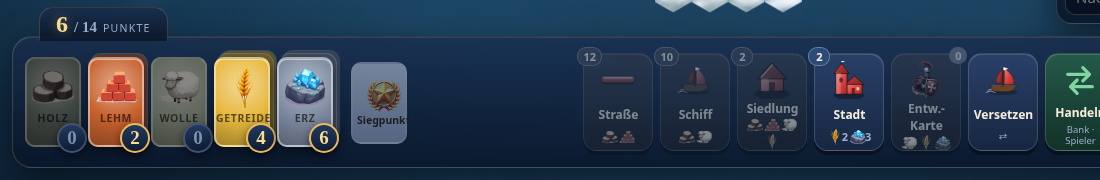
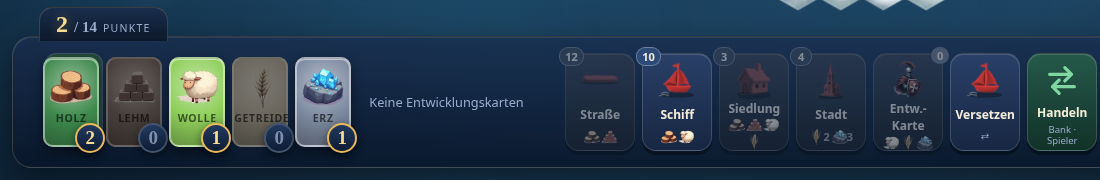
README und Screenshots aktualisiert: Spieltisch, neue Oberfläche, npm run dev, Testliste
Claude-Session: https://claude.ai/code/session_011Zmbz9sbT58iYAsNLxzKWW

diff --git a/README.md b/README.md
@@ -23,6 +23,14 @@ Anmeldung mit Avatar-Auswahl und Lobby mit Bots:
 
 ![Avatare](docs/screenshots/avatare.png)
 
+Digitaler Spieltisch (Browser des Spielleiters als Tischplatte, gedrehte Spielerleisten an allen Rändern), Platzwahl beim Start und ein Handelsangebot am Tisch:
+
+![Spieltisch](docs/screenshots/tisch.webp)
+
+| Platzwahl beim Spielstart | Handelsangebot am Tisch |
+|---|---|
+| ![Platzwahl](docs/screenshots/platzwahl.webp) | ![Handel am Tisch](docs/screenshots/tisch_handel.webp) |
+
 Die Karten sind mit Flux/Forge gemalt: Rohstoffe, Ereigniskarten (Entwicklungskarten) und die Kartenleiste im Spiel.
 
 ![Rohstoffkarten](docs/screenshots/rohstoffkarten.png)
@@ -33,7 +41,8 @@ Kartenanimation (eine Karte fliegt vom Feld in die eigene Hand):
 
 ![Kartenanimation](docs/screenshots/kartenanimation.webp)
 
-Neu erzeugen: `node tests/mock/readme.js && node tests/mock/serve.js &` und dann `python3 tests/mock/readme_shots.py`.
+Neu erzeugen: Spielansichten, Statistik und Kartenleiste mit `node tests/mock/readme.js && node tests/mock/serve.js &` und dann `python3 tests/mock/readme_shots.py`
+(Anmeldung: `?mock=anmeldung`); Lobby mit Bots und Spieltisch fotografieren `tests/browser_bots.py` und `tests/browser_table.py` mit gesetztem `SHOTS=<Verzeichnis>`.
 
 ## Starten
 
@@ -54,8 +63,9 @@ bzw. „App installieren“ des Browsers (Manifest + Icons in `public/`, braucht
 `./scripts/release.sh 1.0.0 --build` (oder `npm run release -- 1.0.0`) – prüft Branch und sauberen Arbeitsbaum, führt `tests/run_all.sh` aus, setzt Version und CHANGELOG-Abschnitt,
 committet „Release 1.0.0“, setzt das Tag `v1.0.0` und baut mit `--build` das Image `localhost/handelsinseln:1.0.0` (+ `latest`). Gepusht wird nie automatisch; das Skript nennt die nächsten Befehle.
 
-Lokal ohne Container: `node server/server.js`. Umgebungsvariablen: `PORT`, `DATA_DIR` (Spielstand), `ABSENT_MS` (Abwesenheit bis Auto-Modus, 60000),
-`LISTEN` (Adresse:Port des http-Listeners, z. B. `127.0.0.1:8080`; sonst `PORT`), `MAX_GAMES` (gleichzeitige Spiele, 3), `BOT_MS` (Takt der Bots, 800), `GRACE_MS` (Kulanz, bis ein Spiel ohne verbundenen Menschen endet, 20000), `HTTPS_PORT` (8443), `TLS_CERT`/`TLS_KEY`/`TLS_HOSTS`, `STUN_URL` (optional, für Sprachchat über Netzgrenzen).
+Lokal ohne Container: `node server/server.js`. Zum Entwickeln: `npm run dev` (Port 8090, nur http, Spielstand in `/tmp/handelsinseln-dev`, Neustart des Servers bei Änderungen;
+Änderungen in `public/` genügt ein Neuladen im Browser, ggf. „Bypass for network“ für den Service Worker). Umgebungsvariablen: `PORT`, `DATA_DIR` (Spielstand), `ABSENT_MS` (Abwesenheit bis Auto-Modus, 60000),
+`LISTEN` (Adresse:Port des http-Listeners, z. B. `127.0.0.1:8080`; sonst `PORT`), `MAX_GAMES` (gleichzeitige Spiele, 3), `BOT_MS` (Takt der Bots, 800), `TICK_MS` (Takt der Zeitprüfung, 2000), `GRACE_MS` (Kulanz, bis ein Spiel ohne verbundenen Menschen endet, 20000), `HTTPS_PORT` (8443), `TLS_CERT`/`TLS_KEY`/`TLS_HOSTS`, `STUN_URL` (optional, für Sprachchat über Netzgrenzen).
 
 **Sprachchat und https:** Browser erlauben das Mikrofon nur unter `https://` oder `http://localhost`. Der Server startet deshalb zusätzlich auf Port 8443 mit https und
 erzeugt dafür selbst ein Zertifikat (gespeichert in `DATA_DIR/tls`). Beim ersten Öffnen von `https://<rechner>:8443` muss der Browser-Warnhinweis einmal bestätigt werden
@@ -71,10 +81,10 @@ Stummschalten ist immer möglich (Knopf im Spiel und im Menü, optional Push-to-
   und wählt die **Variante**: *Klassisch* (Hauptinsel, kleine Inseln, Nebel), *Nebelinseln* (kleine Startinsel, alles muss entdeckt werden),
   *Vier Heimatinseln* (jeder startet auf einer eigenen Insel), *Archipel* (viele kleine Inseln, viel Gold, viele Häfen). Alle in der Lobby sehen die Auswahl live und können per Chat oder Sprache mitreden.
 - **Digitaler Spieltisch:** Der Browser des Spielleiters (z. B. ein in den Tisch eingelassener Bildschirm) wird zur Tischplatte, sobald er in der Lobby einen **Tischspieler** anlegt („Tischspieler anlegen …“: Name, Farbe, Avatar). Alle Spieler sitzen dann am Tisch – Bots und Online-Spieler sind in dieser Partie nicht erlaubt. Das Spielfeld füllt den Bildschirm (alle Nicht-Nebel-Felder gerade noch sichtbar), jede Spielerleiste sitzt dauerhaft am Rand zur Sitzposition gedreht (auch mit geheimen Karten – die Spieler decken sie ab), Menüs und Handelsangebote erscheinen an der jeweiligen Leiste. Beim Start wird jeder Spieler der Reihe nach (Spielleiter zuerst) gefragt, wo er sitzt, und wählt einen der acht Plätze (an den langen Seiten je drei, an den kurzen einer). Die Reihenfolge ergibt sich aus den Plätzen im Uhrzeigersinn, gewürfelt wird nur, wer beginnt. Die Karte wird passend zum Seitenverhältnis des Bildschirms erzeugt.
-- **Einstellungen** (Standard = Originalregeln): **Auto Ablauf** manuell/auto (Auto: sofort nach Zugende würfeln, Hinweise blenden sich aus, Karten fliegen schnell; Manuell: Reihenfolge wird ausgewürfelt, Hinweise per Klick schließen, Karten fliegen langsam ), Inseln dichter (Heimatinsel/Archipel: geringere Abstände), Räuber manuell/automatisch, Siegpunkte, Handkarten-Limit (bei einer 7), Bankkurs, Im laufenden Spiel kann der Spielleiter über „Spiel ändern“ (Menü oder Statistik) alles außer dem Spielfeld nachträglich ändern.
+- **Einstellungen** (Standard = Originalregeln): **Auto Ablauf** manuell/auto (Auto: sofort nach Zugende würfeln, Hinweise blenden sich aus, Karten fliegen schnell; Manuell: Reihenfolge wird ausgewürfelt, Hinweise per Klick schließen, Karten fliegen langsam ), Inseln dichter (Heimatinsel/Archipel: geringere Abstände), Räuber manuell/automatisch, Siegpunkte, Handkarten-Limit (bei einer 7), Bankkurs,
   Spielerhandel an/aus, Inselpunkte, Minima für Längster Handelsweg/Stärkste Schutzmacht und **Vorräte**: Straßen, Schiffe, Siedlungen, Städte, Entwicklungskarten
   (Standard/Zahl/unbegrenzt), Bank-Vorrat je Rohstoff, aufdeckbare Felder je Gelände und Wertechips je Zahl (jeweils Zahl oder unbegrenzt).
-  Sind Vorräte des Nebels erschöpft, wird weiter Meer aufgedeckt.
+  Sind Vorräte des Nebels erschöpft, wird weiter Meer aufgedeckt. Im laufenden Spiel kann der Spielleiter über „Spiel ändern“ (Menü oder Statistik) alles außer dem Spielfeld nachträglich ändern.
 - Der Spielleiter kann das Spiel jederzeit beenden – alle sehen dann eine Statistik (Würfelverteilung, Siegpunktverlauf, Erträge, Handel …).
   Das Spiel endet komplett, wenn der letzte Spieler den Tab schließt oder im Menü „Spiel verlassen“ wählt (≈ 20 s Kulanz für Neuladen).
 - **Avatare:** Beim Beitritt wählt jeder eines von 16 Porträts – 8 Tiere und 8 Menschen-Typen (mit Forge/Flux gemalt); vorgeschlagen wird zufällig eines, im gewählten Spiel schon vergebene sind gesperrt.
@@ -106,6 +116,8 @@ node tests/bots.js 8                 # Bot-Turnier: Baumeister/Händler/Ritter g
 python3 tests/browser_takeover.py    # Übernahme der Infrastruktur eines Verlassenen in der echten Oberfläche
 python3 tests/browser_lobby_preview.py  # Gäste sehen die Brettvorschau des Spielleiters, Nebelring, abweichende Regeln
 python3 tests/browser_https_voice.py    # Mikrofon im LAN: Hinweis auf http, Sprachverbindung über das erzeugte https-Zertifikat
+python3 tests/browser_mobile.py         # Handy hoch/quer und Desktop: kompakte Ansicht, Schubladen, Lobby-Zoom, Manifest und Icons
+python3 tests/browser_table.py          # Spieltisch: Tischspieler, Platzwahl, Plätze und Drehung, Handel am Tisch, Statistik nach Spielende
 tests/run_all.sh                        # alles nacheinander
 ```
 
